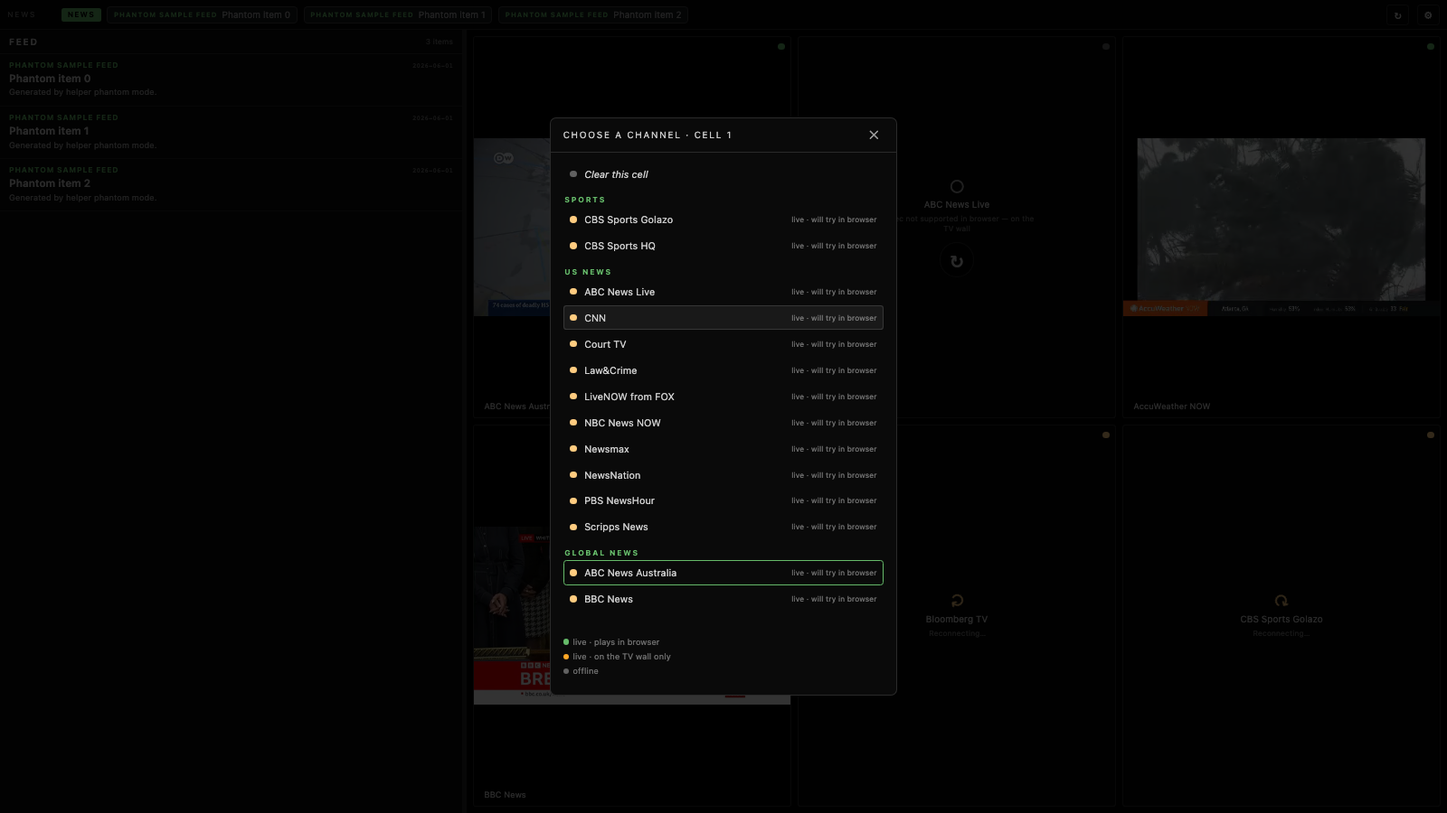
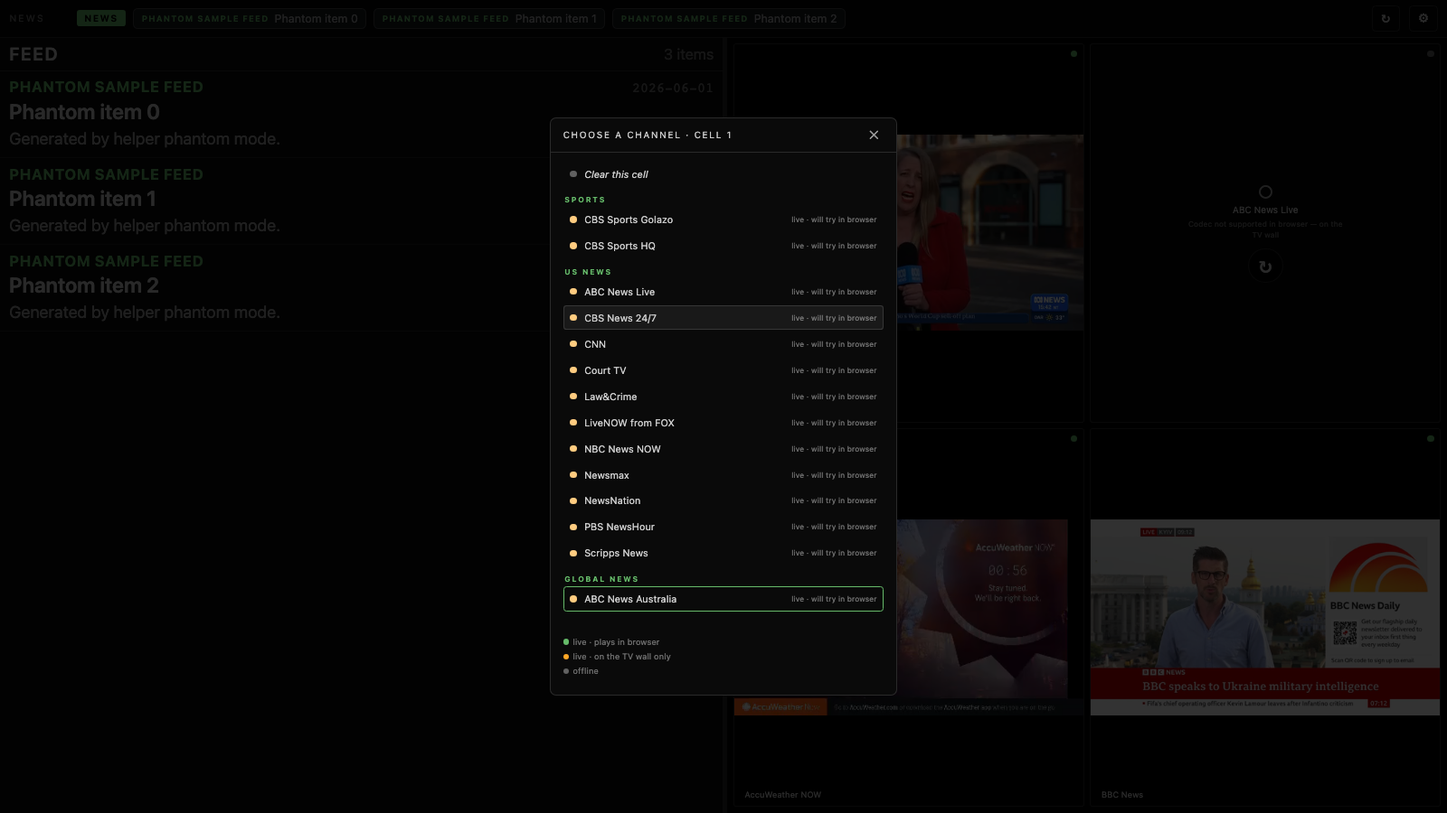
docs: fresh-source pass — finding 24, currency, gallery
Records the MYMTS-003 pass and corrects every present-tense lineup count,
including drift that PREDATED this pass.

- docs/findings/24: the full evidence record. Why the v0.2.1 prune was
  superseded-endpoint and not a sourcing judgment (recovered from c3b5866 +
  the removed seed rows); the admission bar applied; per-candidate ladders,
  segment sizes and containers over two probes; and the reflection list.
- CHANGELOG [Unreleased] + ARCHITECTURE §25 dated note: the additions, the
  honest-nos, and why no APK is warranted.
- Counts corrected to 56 (23 direct-HLS + 31 YouTube-resolved + 2 cspan):
  ARCHITECTURE (the canonical statement AND a pre-existing stale "53"),
  ONBOARDING, docs/onboarding/ONBOARD-01-SETUP, .phantom.yml (3 sites),
  phantom.py's docstring, and tools/desktop/README (a stale "~37 seed
  channels" / "~30 direct-HLS"). Dated CHANGELOG and findings entries are
  left intact as the historical record.
- Gallery: only channel-picker.png regenerated — the one shot whose content
  genuinely drifted (CBS News 24/7 now renders in US News). Capture navigation
  was re-verified against the current UI first and needed no fix. The other
  shots differ run-to-run only by live video frames, so re-committing them
  would be churn.

Two honest-nos are recorded rather than worked around: CBS News Chicago
(master 200, all six variants 404) and the EarthCam/NASA broadcaster handles,
which stay labelled for the BROADCASTER and are deliberately not relabelled to
[…]

diff --git a/helper/src/mymts_helper/phantom.py b/helper/src/mymts_helper/phantom.py
@@ -9,7 +9,7 @@
     /health `sources_count` is the seeded real sources + 1 — by design, an
     honest demo fixture, never a real outlet faked into carrying items.
   - The channel prober is NOT started; preload also seeds every channel
-    from seed.json (all 52) to status=live with synthetic current_urls.
+    from seed.json (all 56) to status=live with synthetic current_urls.
   - The fetcher's `default_resolver` is replaced with `phantom_resolver`
     so any code path that does try to make a real HTTP call refuses to
     resolve any hostname — phantom mode is a hard contract that no

diff --git a/ARCHITECTURE.md b/ARCHITECTURE.md
@@ -963,7 +963,7 @@ A second hands-on pass refined the web client and corrected a video diagnosis.
 - **Agnostic web feed (web only).** `render.mjs::feedChronological` flattens to one newest-first river across all sources; `app.mjs` renders the **source next to each headline** (`sourceLabel`) — the original Onn style, not per-source sections. The **native** feed keeps its Stage-7 per-source sections **on purpose** (a per-client preference, not a reversal); whether to also make the native feed agnostic is an open operator question logged in `BACKLOG.md`. Honest staleness stays per-item via the time/age.
 - **Cell-count grid.** The freeform size slider + draggable splitter were replaced with **cell-count** configuration — `render.mjs::gridLayout(1|2|4|6|9)` → near-square `{cols,rows}` driving `--grid-cols/--grid-rows`. Matches the native wall's tile-count model; the browser host isn't the constrained S905Y4, so it goes past 4. Feed width became a clean Settings control. Cell count + per-cell channel assignment + feed width persist in `localStorage` (`mymts.web.prefs.v2`).
 - **Click-to-pick channels.** A cell is a click target → a channel picker (`app.mjs::openPicker`) listing every channel with an honest badge (plays-in-browser / on-the-TV-wall-only / offline), browser-playable first, plus "Clear this cell". The tile labels its channel and shows a "click to change" chip; empty cells show "＋ Add channel".
-- **Mixed-content honesty (no proxy).** Diagnosis (finding 16, when the lineup was 10 channels) showed all of them HTTPS-clean **and** CORS-allowed — so mixed content was *not* why tiles were blank for that set. Reported truthfully. *(The lineup is now 53 and that "all clean" snapshot isn't re-verified across it — but it doesn't need to be: the runtime `<video>` load result below is the live authority, so any not-playable channel self-flags honestly regardless.)* The suspected real cause — hls.js's `blob:` worker blocked by the locked CSP — is fixed with **`enableWorker:false`** (no CSP widening) plus a click-to-play autoplay fallback. The honest **play-what-works** system is built regardless: the helper classifies a per-channel `browser_playable` hint (`channels/prober.py::classify_browser_playable`, migration 002, on `/api/channels`) by scanning the master+variant bodies for `http://`; the client uses the tri-state `browserPlayability` hint **and** the runtime `<video>` load result (the ground truth, which also catches CORS/geo/dead) to flip a failing tile to the honest "on the TV wall" state. The helper never proxies video — it stays the resolver/shield; the **TV remains the full-fidelity client**.
+- **Mixed-content honesty (no proxy).** Diagnosis (finding 16, when the lineup was 10 channels) showed all of them HTTPS-clean **and** CORS-allowed — so mixed content was *not* why tiles were blank for that set. Reported truthfully. *(The lineup is now 56 and that "all clean" snapshot isn't re-verified across it — but it doesn't need to be: the runtime `<video>` load result below is the live authority, so any not-playable channel self-flags honestly regardless.)* The suspected real cause — hls.js's `blob:` worker blocked by the locked CSP — is fixed with **`enableWorker:false`** (no CSP widening) plus a click-to-play autoplay fallback. The honest **play-what-works** system is built regardless: the helper classifies a per-channel `browser_playable` hint (`channels/prober.py::classify_browser_playable`, migration 002, on `/api/channels`) by scanning the master+variant bodies for `http://`; the client uses the tri-state `browserPlayability` hint **and** the runtime `<video>` load result (the ground truth, which also catches CORS/geo/dead) to flip a failing tile to the honest "on the TV wall" state. The helper never proxies video — it stays the resolver/shield; the **TV remains the full-fidelity client**.
 
 ### Native vs web: why the TV is the full-fidelity client (Browser Client Refocus, 2026-06-13)
 
@@ -1171,7 +1171,7 @@ Both return `audio/x-mpegurl`: `#EXTM3U`, then per channel `#EXTINF:-1 tvg-id="<
 
 A cluster of work that post-dates the section structure above; the stage sections stay as the historical record, this is the current state.
 
-**yt-dlp YouTube resolution (`channels.kind = 'youtube'`) — shipped, in-process.** Migration 003 widened the `kind` CHECK to admit `'youtube'`; the resolver lives in `helper/src/mymts_helper/channels/youtube_resolver.py` and `import yt_dlp` directly (a library call, **not** the once-predicted out-of-process sidecar). On the prober's cycle it resolves a YouTube `/live` URL to its HLS manifest, **gating on `is_live`** so a non-24/7 feed resolves to an honest offline rather than a dead URL; a thread-safe cache keyed off the manifest's own `expire` refreshes before expiry. The resolved manifest is then validated by the **same** SSRF-safe master/variant fetch as a direct-HLS channel — egress is the helper's normal (residential) path, never a host VPN. Lineup is now **52 channels** (22 direct-HLS + 28 YouTube-resolved + 2 free-government `cspan`; US-vantage — a 2026-06-22 quality pass pruned 4 persistently-dead HLS origins: `cnbc` (a `.invalid` placeholder), `al-jazeera-en`, `cgtn-en`, `trt-world`), across the news sections plus the 2026-06 ambient categories **Space / Nature / Cameras** (NASA ISS-HD, explore.org + Monterey Bay Aquarium nature cams, EarthCam / earthTV) — restoring the original wall vision. The **white-whale ocean + eagle cams (2026-06-21)** complete that vision: explore.org **Tropical Reef** + Homosassa **Manatee** (Ocean) and the **Decorah Eagles** nest (seasonal, honest-offline off-season) — all free official YouTube lives, `is_live`-gated, categorized Nature, surfaced via the server-authoritative **Ocean** + **Eagles** presets (both clients pick them up with no rebuild). Per-cam video IDs because explore's `/live` handle rotates; a dead/rotated ID honest-offlines, never fake-live. yt-dlp is pinned and needs periodic bumps (the desktop app self-updates it — below).
+**yt-dlp YouTube resolution (`channels.kind = 'youtube'`) — shipped, in-process.** Migration 003 widened the `kind` CHECK to admit `'youtube'`; the resolver lives in `helper/src/mymts_helper/channels/youtube_resolver.py` and `import yt_dlp` directly (a library call, **not** the once-predicted out-of-process sidecar). On the prober's cycle it resolves a YouTube `/live` URL to its HLS manifest, **gating on `is_live`** so a non-24/7 feed resolves to an honest offline rather than a dead URL; a thread-safe cache keyed off the manifest's own `expire` refreshes before expiry. The resolved manifest is then validated by the **same** SSRF-safe master/variant fetch as a direct-HLS channel — egress is the helper's normal (residential) path, never a host VPN. Lineup is now **56 channels** (23 direct-HLS + 31 YouTube-resolved + 2 free-government `cspan`; US-vantage). A 2026-06-22 quality pass pruned 4 persistently-dead HLS origins — `cnbc` (a `.invalid` placeholder), `al-jazeera-en`, `cgtn-en`, `trt-world` — and the 2026-08-18 fresh-source pass **re-sourced the last three to their official YouTube `/live` handles** (the prune was superseded-endpoint evidence, not a judgment on the broadcasters) and added **CBS News 24/7** on its first-party token-free direct-HLS origin, across the news sections plus the 2026-06 ambient categories **Space / Nature / Cameras** (NASA ISS-HD, explore.org + Monterey Bay Aquarium nature cams, EarthCam / earthTV) — restoring the original wall vision. The **white-whale ocean + eagle cams (2026-06-21)** complete that vision: explore.org **Tropical Reef** + Homosassa **Manatee** (Ocean) and the **Decorah Eagles** nest (seasonal, honest-offline off-season) — all free official YouTube lives, `is_live`-gated, categorized Nature, surfaced via the server-authoritative **Ocean** + **Eagles** presets (both clients pick them up with no rebuild). Per-cam video IDs because explore's `/live` handle rotates; a dead/rotated ID honest-offlines, never fake-live. yt-dlp is pinned and needs periodic bumps (the desktop app self-updates it — below).
 
 **Free government-stream resolution (`channels.kind = 'cspan'`) — shipped, in-process.** Migration 004 widened the `kind` CHECK to also admit `'cspan'`; the resolver (`channels/cspan_resolver.py`) sources C-SPAN's **free, no-login** government livestreams from the government's *own* players — never the entitlement-gated C-SPAN/C-SPAN2/C-SPAN3 networks (Adobe Pass / MVPD), which stay out of scope. It is a **session/filename-refresh** resolver (NOT a token resolver — the senate.gov ISVP feeds carry no Akamai token, no auth, no DRM), serving two modes off one Akamai master shape: the **U.S. Senate floor** (`floor_schedule.json` → `convenedSessionStream`) and **U.S. Senate committee hearings** (the first-party `hearings.xml` schedule → an aggregate tile that surfaces whichever committee is *genuinely* live — a finished hearing whose variant carries `#EXT-X-ENDLIST` is rejected as a frozen VOD, so an ended hearing is never shown live). Both are **honest-offline** when nothing is in session. The House floor + House committees + federal agencies (White House / State / Pentagon / DHS / DOJ) ride the YouTube resolver above. Together these generalize the gov-stream recipe — *read a .gov schedule/ISVP → build the open token-free Akamai master → gate on live* — into a reusable pattern; egress is the helper's normal residential path, never a host VPN, and every resolved manifest still passes the SSRF-safe master/variant fetch before a channel is marked live.
 
@@ -1190,6 +1190,10 @@ A cluster of work that post-dates the section structure above; the stage section
 **Channel quality + Government section (2026-06-22).** A new server-authoritative **Government** category groups the session-gated official `.gov` feeds (chamber floors, committee hearings, agency briefings, the White House feed) out of US News (24 → 11 live), so US News reads live-dense and the gov feeds are honestly grouped (dark-when-not-in-session is expected for "Government"). Both clients pick it up server-authoritatively — native via `sectionedByCategory` (which appends an unrecognized server category alphabetically before General, no rebuild), the web via its `CHANNEL_CATEGORY_ORDER`. The **Space preset** dropped `nasa-tv` (DENY'd — its master-only HLS settles DEAD in ExoPlayer — which made the preset ~50% dead) → ISS-only (1×1); `nasa-tv` remains a picker channel. Verified on-device.
 
 **Weather pass + dead-news prune (2026-06-24).** The Weather category grew 2 → 4: **WeatherNation** re-added (its NAS-prober TLS handshake fixed — its Stirr CDN offers only an RSA-kx cipher Python's default omits, so the `fetcher` now enables that suite **without weakening cert verification**, SECLEVEL unchanged) and **WeatherSpy** added (free Rakuten/CloudFront FAST weather) — both validated `live` from the NAS prober. The two persistently-dead news channels `cnn-international` (Wurl/Rakuten host DNS-dead; not on any US FAST platform) and the branded `c-span` (cspan1 akamai now `http_403`; the three linear C-SPAN networks online are MVPD-gated) were **re-sourced and, finding no clean free source, pruned** — the token-FREE C-SPAN path remains the gov event streams (the `us-senate-*` `cspan` resolvers, unaffected). Lineup stays **52** (−2 dead HLS, +2 live weather HLS). Server-authoritative → both clients pick up with no rebuild.
+
+**Fresh-source pass — international news restored + CBS News 24/7 (2026-08-18).** Lineup **52 → 56**, server-authoritative, **no app rebuild** (every addition lands in an existing section, so `CATEGORY_ORDER` is byte-identical across all three surfaces and the native picker groups them via `sectionedByCategory`). **Al Jazeera English**, **CGTN English** and **TRT World** are **back**: the 2026-06-22 prune removed them because their old *direct-HLS* origins were persistently dead (~1000 consecutive dns/SSL failures, hosts gone) — that was **superseded-endpoint** evidence, not a judgment on the broadcasters, so each is re-sourced to its **official YouTube `/live` handle** (`kind='youtube'`) and rides the same `is_live`-gated yt-dlp resolver → honest-offline as every other YouTube channel. The seed pins the **@handle**, never a rotating video id, so a restream can't strand the tile (pinned by a test). **CBS News 24/7** joins US News on its **first-party token-free direct-HLS origin** (`kind='hls'`). Every addition was validated through the project's own credential-free path — **master → variant → one real segment**, twice, several minutes apart — with no auth, no cookies, no `Referer`, no DRM (`#EXT-X-KEY` absent) and no per-play signing.
+
+*Honest-nos from the same pass.* **CBS News Chicago** (the first-party market feed): its master manifest still serves 200 with a full six-rung ladder, but **every advertised variant returns `404`** — the master-OK / variant-FAIL shape the prober's deepened validation exists to reject; identical on both probes. The only other Chicago path is Pluto's per-play-JWT ad-stitcher, already refused in finding 23. **NASA TV** (`nasa-tv`, the existing NTV1 direct-HLS entry) re-probed the same way: master 200, **all three variants 404** — the standing `DENY` + honest-offline is confirmed correct and it stays a re-source candidate. The generic **EarthCam** and **NASA** entries stay labelled as the **broadcaster handles** they are: both resolve live, but their `/live` handle rotates through programming (EarthCam happened to be showing Wrigley Field at probe time), so relabelling either to whatever was on screen would be a claim the source cannot sustain — see finding 24.
 
 **Desktop executable (`tools/desktop/`, released v0.1.1).** The helper packaged as a launchable desktop app (PyInstaller) so a user runs the **web wall** with no clone / Docker / Python: a **menu-bar / system-tray** app (macOS/Windows) that serves the helper on `http://127.0.0.1:PORT` (localhost — a browser secure context, no TLS) and opens the wall; **headless server mode** on Linux / no-display. It reuses the helper's `create_app()` (no new server logic), keeps the seeded DB in a per-user data dir (never the read-only bundle), and runs a **yt-dlp self-update** — fetch the latest from PyPI's official hosts over HTTPS, **SHA256-verify** against PyPI's digest, and prefer it over the frozen copy via a `meta_path` finder ahead of PyInstaller's `FrozenImporter`, with an offline/launch-safe fallback — so the YouTube channels stay current independent of app releases. Signing/notarization is wired but **gated on credentials** (unsigned builds are honestly marked + carry a right-click→Open note). A tag-triggered GitHub Actions matrix builds macOS/Windows/Linux and publishes a GitHub Release. The same `v*` tag also builds the **native Android APK** (`assembleRelease`) and — **gated on the Android keystore secrets** (the same present/absent gating as macOS notarization) — signs it (`apksigner verify`) and attaches `mymts-<version>.apk` to the Release; with no secrets it builds for validation only and attaches nothing (an unsigned APK won't install). The CI APK is a *stock, runtime-configurable* build (no baked helper URL → first-run setup). The gradle signing reads the keystore from `MYMTS_RELEASE_*` env in CI and from the gitignored `keystore.properties` locally (the operator's flow, unchanged). The bundle/APK are gitignored; only the tooling/workflows are committed. See `CHANGELOG.md` + `SECURITY-PRACTICES.md` (the two signing paths) + `docs/DOWNLOAD-AND-RUN.md`.
 

diff --git a/docs/findings/24-fresh-source-pass-intl-news-and-cbs.md b/docs/findings/24-fresh-source-pass-intl-news-and-cbs.md
@@ -1,0 +1,176 @@
+# 24 — Fresh-source pass: international news restored, CBS News 24/7 added
+
+**Date:** 2026-08-18
+**Scope:** Re-source the three international news channels pruned in the v0.2.1 channel
+cleanup (Al Jazeera English, CGTN English, TRT World), evaluate national **CBS News 24/7**
+and an official **CBS News Chicago** first-party HLS candidate, and re-validate the two
+existing *broadcaster-handle* entries (NASA, EarthCam).
+
+**Outcome: 4 added, 2 honest-no, 2 existing entries re-confirmed as-is.**
+Lineup **52 → 56**. No category added or reordered, so the native app is byte-untouched
+and no APK release is warranted.
+
+---
+
+## Phase 0 — why they were pruned (the gate)
+
+Recovered from primary sources, not memory: commit `c3b5866` *(fix(channels): quality
+cleanup — prune dead, Government category, fix presets, 2026-06-22)*, released in
+`ec832a0` *(chore(release): cut v0.2.1)*, and `CHANGELOG.md` §"Channel-selection findings
+(lineup 56 → 52)".
+
+> **B4:** pruned `al-jazeera-en`, `cgtn-en`, `trt-world` — persistently dead (~1000
+> consecutive dns/SSL failures; hosts gone).
+
+The removed seed rows confirm it — all three were **direct-HLS** origins:
+`live-hls-web-aje.getaj.net`, `livecgtnen.v.kcdnvip.com`, `tv-trtworld.live.trt.com.tr`.
+
+**Conclusion: superseded-endpoint evidence, not a sourcing judgment.** The prune was about
+three dead *hosts*, not about stream quality, editorial standing, or a decision that these
+broadcasters don't belong in the lineup. Nothing in the commit, the release notes, or the
+findings set records a substantive objection to the sources themselves. That makes a
+re-source with a *different, live* official endpoint legitimate — and it gets the **full**
+current admission bar, with no credit for having been carried before.
+
+---
+
+## Admission bar applied (unchanged from finding 23)
+
+Every candidate had to clear all of it, from the helper's own credential-free path:
+
+- resolved and fetched through the project's real code — the in-process `yt_dlp` resolver
+  (`channels/youtube_resolver.py`, `is_live`-gated, no `player_client` pin) for
+  `kind='youtube'`, then the SSRF-safe `fetcher` (https-only, cert verification **on**,
+  private-range rejection, bounded body/time) for every hop;
+- **master → variant → one real segment** actually fetched and its container sniffed;
+- **no** credentials, cookies, injected tokens, `Referer` spoofing, or DRM workarounds;
+- **no** DRM (`#EXT-X-KEY` must be absent), **no** per-play signing;
+- **two probes several minutes apart**, both clean;
+- for YouTube sources, the seed pins the **`@handle`/live** URL — **never** a video id,
+  which rotates whenever the broadcaster restarts the stream.
+
+---
+
+## Results
+
+| Candidate | Kind | Verdict | Top rung | Segment |
+|---|---|---|---|---|
+| **CBS News 24/7** (first-party) | `hls` | **ADD** | 1280×720 @29.97, 3.02 Mb/s (6 rungs) | 1.81 / 1.87 MB MPEG-TS |
+| **Al Jazeera English** (official YouTube) | `youtube` | **ADD** | 1920×1080 @30, 4.56 Mb/s (6 rungs) | 1.63 / 1.47 MB MPEG-TS |
+| **TRT World** (official YouTube) | `youtube` | **ADD** | 1920×1080 @30, 4.56 Mb/s (6 rungs) | 0.47 / 0.55 MB MPEG-TS |
+| **CGTN English** (official YouTube) | `youtube` | **ADD** | 1920×1080 @30, 5.42 Mb/s (6 rungs) | 1.01 / 0.95 MB MPEG-TS |
+| **CBS News Chicago** (first-party) | — | **HONEST-NO** | master OK, 6 rungs advertised | **all 6 variants HTTP 404** |
+| **NASA TV** (`nasa-tv`, existing) | `hls` | **unchanged, DENY confirmed** | master OK, 3 rungs advertised | **all 3 variants HTTP 404** |
+| **ISS / @NASA handle** (`iss-feed`, existing) | `youtube` | **unchanged** | 1280×720 @60, 2.92 Mb/s | 0.93 MB MPEG-TS |
+| **EarthCam** (`earthcam-live`, existing) | `youtube` | **unchanged** | 1920×1080 @30, 5.42 Mb/s | 0.67 / 2.70 MB MPEG-TS |
+
+No candidate's chain contained `#EXT-X-KEY`, a plain-`http://` sub-resource, or a per-play
+signature. Both probes agreed on every row — the four passes passed twice, and the two
+failures failed twice.
+
+### CBS News 24/7 — why the first-party HLS and not the YouTube handle
+
+Both work. The official `@CBSNews/live` handle resolves and plays cleanly, but CBS also
+publishes the feed as a **stable, token-free first-party `.m3u8`**, which is the registry's
+*preferred* shape: no runtime resolver dependency, no ~6 h manifest expiry to refresh, no
+exposure to yt-dlp extraction rot. The direct-HLS origin was taken for that reason.
+
+The variant playlists carry `#EXT-X-CUE-OUT-CONT` / SCTE-35 ad markers (normal for a free
+linear feed) and their segment URIs carry a `?m=<stamp>` cache-buster that is **constant
+across segments and across both probes** — an origin-emitted config stamp we simply follow,
+not a per-play signature we mint. The seeded URL itself is plain and unsigned.
+
+### CBS News Chicago — honest-no
+
+The first-party master serves **HTTP 200** with a complete six-rung ladder, so a shallow
+"is it 200?" check would call it live. Every one of the six advertised variants returns
+`<h1>error 404</h1>`. This is precisely the **master-OK / variant-FAIL** pattern the
+prober's deepened validation (2026-06-03) was built to catch, and it is why the helper
+follows the master one level before ever marking a channel live. Identical on both probes.
+
+No workaround was attempted. The only other Chicago-market path is Pluto's rotating-JWT
+ad-stitcher, already refused on per-play-signing grounds in finding 23. **BACKLOG.**
+
+### NASA TV — the DENY is still correct
+
+`nasa-tv`'s NTV1 direct-HLS master serves 200 and advertises three rungs; **all three
+404**. That is the original "NASA pattern" that motivated the master→variant probe, and it
+confirms the standing `LineupSelector.DENY` / `WEB_DENY` entry and the channel's
+honest-offline state are right. It was **not** pruned in this pass — it is honest-offline
+by design, remains selectable in the picker, and is recorded here as a re-source candidate.
+
+### NASA and EarthCam are BROADCASTER HANDLES — deliberately not relabelled
+
+Both `iss-feed` (`@NASA/live`) and `earthcam-live` (`@earthcam/live`) point at a
+**broadcaster's handle**, and a handle streams whatever that broadcaster is streaming.
+
+At probe time `@earthcam/live` was titled *"EarthCam Live: Wrigley Field"*. It would have
+been easy — and wrong — to convert `earthcam-live` into a dedicated Wrigley tile. The label
+would be accurate for exactly as long as EarthCam kept that cam on the handle, and the
+project would be making a claim its source cannot sustain. It also would **not** be the same
+thing as the dedicated Wrigleyville cams, which finding 23 refused on hard grounds
+(`Referer`-gated, rotating `t=/td=` token, yt-dlp extractor broken) — those remain
+honest-no, and nothing here changes that.
+
+`@NASA/live` was showing the official ISS stream at probe time, matching its existing "ISS
+HD Live" label. Left as-is for the same reason, with the same caveat: it is the NASA
+handle, not a dedicated ISS endpoint.
+
+**Rule, recorded so a later pass doesn't re-tread it:** a channel sourced from a
+`/@handle/live` URL is labelled for the *broadcaster*, never for whatever happened to be
+on air during a probe.
+
+---
+
+## What changed in the repo
+
+- `channels/seed.json` — +4 entries (52 → 56; 23 `hls` / 31 `youtube` / 2 `cspan`). The
+  three restored feeds went back to their **original seed positions** so the diff reads as
+  a re-source in place.
+- `channels/category.py` — +4 slug→category entries. `cbs-news-247` → **US News**;
+  `al-jazeera-en` / `cgtn-en` / `trt-world` → **Global News**. `CATEGORY_ORDER` is
+  **unchanged**, which is what keeps the native app out of this change entirely.
+- Tests — see below. The honest-no is recorded in `category.py`'s omissions block so a
+  future pass finds the evidence next to the taxonomy rather than only in this file.
+
+## Test coverage added (the previous coverage was near-vacuous)
+
+An audit of the existing suite found that adding a channel was **almost entirely
+unguarded**: only four assertions touched a new entry at all, and the change would have
+gone green even if half the new channels never reached the database. Closed with:
+
+- `test_api_channels_2026_08_fresh_sources` — each of the four by slug, with its expected
+  `category` **and** `kind`, plus a guard that the three re-sourced feeds use an
+  `@handle`/live URL and **never** a `watch?v=` video id.
+- `test_every_seeded_channel_has_an_explicit_category` — every seeded slug must be
+  explicitly mapped (one documented exception, `redbull-tv`), and the map may not keep
+  entries for channels no longer shipped. The `GENERAL` fallback exists so an unmapped
+  channel is never *hidden*; silently landing there is still a bug.
+- `test_lineup_size_and_kind_breakdown_are_what_the_docs_claim` — pins 56 / 23-31-2 so the
+  docs and the seed cannot drift apart silently, and names the files to update on a change.
+- `test_shipped_channel_seed_is_wellformed_and_unique` + `…_seeds_every_channel` — the
+  channel-seed equivalent of the long-standing feed-seed guards. **This closed a real
+  latent gap:** `seed_from_file` and `override.seed_lineup` deliberately *skip* an entry
+  whose validator rejects it (so one bad row can't stop the helper booting) — correct at
+  runtime, but it meant a typo'd URL vanished **silently** and the channel simply never
+  appeared. Asserting `stored == len(seed.json)` makes that loud at commit time.
+
+Each new assertion was **mutation-tested**: dropping a channel, pinning a rotating video
+id, seeding an uncategorised channel, and giving a channel a URL its validator rejects each
+produce a red suite naming the exact problem.
+
+---
+
+## Reflection / do-not-re-tread
+
+- A prune for **dead endpoints** is not a prune for **cause**. Before refusing to re-source
+  something the project once carried, read *why* it went — the difference between "the host
+  died" and "we judged this source unfit" decides whether a fresh endpoint is even eligible.
+- **Master-200 is not liveness.** Two of eight candidates served a perfectly well-formed
+  master whose entire ladder was 404. Any future sourcing pass must follow to a real
+  segment; a manifest fetch alone would have added a permanently-dead tile.
+- **A handle is a broadcaster, not a programme.** Resist labelling a `/@handle/live` entry
+  for whatever is on screen during the probe.
+- **Free-linear ad markers are not DRM.** SCTE-35 `#EXT-X-CUE-OUT` and a constant `?m=`
+  cache-buster are ordinary for a FAST feed; the disqualifiers are `#EXT-X-KEY` and a
+  *per-play* signature, and neither was present.

diff --git a/CHANGELOG.md b/CHANGELOG.md
@@ -62,6 +62,81 @@ resolution, clamping, D-pad nudge semantics, and the enum→step migration incl.
 
 ## [Unreleased]
 
+## feat(channels): fresh-source pass — international news restored + CBS News 24/7 (2026-08-18)
+
+Lineup **52 → 56**. Server-authoritative: every addition lands in an **existing** section,
+so `CATEGORY_ORDER` is byte-identical on all three surfaces, `app/` has an **empty diff**,
+and **no APK release is warranted** — the TV picks the new channels up from `/api/channels`
+with no rebuild. Second cut under the per-effort numbering scheme: **MYMTS-003**.
+ARCHITECTURE §25 (dated note) + `docs/findings/24`.
+
+- **Al Jazeera English, CGTN English and TRT World are back.** The 2026-06-22 quality pass
+  (`c3b5866`, released in v0.2.1) pruned all three because their old **direct-HLS** origins
+  were persistently dead — ~1000 consecutive dns/SSL failures, hosts gone. Recovering that
+  rationale was a hard gate on this work, and the answer is unambiguous: it was
+  **superseded-endpoint evidence, not a sourcing judgment**. Nothing on record objected to
+  the broadcasters. Each is therefore re-sourced to its **official YouTube `/live` handle**
+  (`kind='youtube'`), resolved at runtime by the same `is_live`-gated yt-dlp resolver as
+  every other YouTube channel, so a dark feed honest-offlines instead of showing a dead URL.
+  The seed pins the **@handle** and never a video id — a pinned id strands the tile the
+  moment the broadcaster restarts the stream (now a test, not a convention).
+- **CBS News 24/7 added** to US News on its **first-party, token-free direct-HLS** origin.
+  Its official YouTube handle also validated clean, but the direct `.m3u8` is the registry's
+  preferred shape: no resolver dependency, no ~6 h manifest expiry, no yt-dlp extraction rot.
+- **Validation was credential-free and end-to-end.** Every candidate went through the
+  project's own code — the in-process resolver, then the SSRF-safe fetcher — **master →
+  variant → one real fetched segment**, twice, several minutes apart. No auth, no cookies,
+  no injected token, no `Referer`, no DRM workaround. No chain contained `#EXT-X-KEY`, a
+  plain-`http://` sub-resource, or a per-play signature. Ladders, segment sizes and
+  containers are recorded in finding 24.
+
+### Honest-nos and re-confirmations from the same pass
+
+- **CBS News Chicago — honest-no.** Its first-party master serves **200** with a full
+  six-rung ladder, and **all six variants return 404**. That is the master-OK / variant-FAIL
+  shape the prober's deepened validation exists to reject; identical on both probes. No
+  workaround was attempted — the only other Chicago path is Pluto's per-play-JWT stitcher,
+  already refused in finding 23. **BACKLOG.**
+- **NASA TV — the `DENY` is confirmed correct, and it stays.** Re-probed the same way:
+  master 200, **all three variants 404**. It is honest-offline by design, still selectable
+  in the picker, and recorded as a re-source candidate. Not pruned — that would be a
+  separate decision from this pass.
+- **NASA and EarthCam stay labelled as the broadcaster handles they are.** `@earthcam/live`
+  was titled *"EarthCam Live: Wrigley Field"* at probe time. Converting it into a dedicated
+  Wrigley tile would be a claim the source can't sustain — a handle streams whatever the
+  broadcaster puts on it — and it is **not** the same thing as the dedicated Wrigleyville
+  cams, which remain honest-no on `Referer`+rotating-token grounds (finding 23). Recorded as
+  an explicit judgment rather than an assumption.
+
+### Test coverage — a near-vacuous area made non-vacuous
+
+An audit found that adding a channel was **almost entirely unguarded**: only four
+assertions touched a new entry, and the change would have gone green even if half the new
+channels never reached the database.
+
+- New: `test_api_channels_2026_08_fresh_sources` (each slug, its `category` **and** `kind`,
+  plus the no-pinned-video-id rule), `test_every_seeded_channel_has_an_explicit_category`
+  (no silent fall into `General`; no map entries for unshipped slugs), and
+  `test_lineup_size_and_kind_breakdown_are_what_the_docs_claim` (pins 56 / 23-31-2 and names
+  the docs to update).
+- **Latent gap closed:** `seed_from_file` / `override.seed_lineup` deliberately *skip* an
+  entry whose validator rejects it, so one bad row can't stop the helper booting — right at
+  runtime, but it meant a typo'd URL vanished **silently** and the channel simply never
+  appeared. `test_shipped_channel_seed_is_wellformed_and_unique` +
+  `test_shipped_channel_seed_seeds_every_channel` assert `stored == len(seed.json)`, the
+  guard the feed seed has had all along and the channel seed never did.
+- Every new assertion was **mutation-tested** (drop a channel, pin a video id, seed an
+  uncategorised channel, break a URL) and each produces a red suite naming the problem.
+
+### Docs currency
+
+Corrected every present-tense lineup count, including drift that predated this pass:
+`ARCHITECTURE.md` (the canonical statement, plus a stale "53"), `ONBOARDING.md`,
+`docs/onboarding/ONBOARD-01-SETUP.md`, `.phantom.yml` (3 sites), `phantom.py`'s docstring,
+and `tools/desktop/README.md` (a stale "~37 seed channels" / "~30 direct-HLS"). Dated
+CHANGELOG and findings entries were left intact as history.
+
+
 ## feat(web,helper): auto-fit feed width (2026-08-04)
 
 A mode that sizes the feed panel so the **video** cells come out at the videos' native

diff --git a/tools/desktop/README.md b/tools/desktop/README.md
@@ -84,8 +84,8 @@ to sign with `signtool`; otherwise unsigned (SmartScreen caveat).
 This started as a proof-of-concept to de-risk the approach. Validated:
 
 - **It works.** Cold start ≈ 9 s to a healthy server (first run includes DB
-  seeding + the heavy frozen import); the wall serves at `/app/`, the ~37 seed
-  channels load, the DB lands in the user-data dir, clean shutdown.
+  seeding + the heavy frozen import); the wall serves at `/app/`, the seed
+  channels load (56 at the time of writing), the DB lands in the user-data dir, clean shutdown.
 - **Bundle size ≈ 53 MB** (`onedir`). yt-dlp (~12 MB of extractors) is the
   dominant contributor, then the Python runtime + `libcrypto`/`pydantic_core`.
 - **yt-dlp survives freezing.** The YouTube channels resolve from inside the
@@ -102,5 +102,5 @@ This started as a proof-of-concept to de-risk the approach. Validated:
 - **Channel geo:** the default lineup was sourced from a US vantage; some streams
   may not resolve outside that region. The lineup is the helper's seed.
 - **yt-dlp staleness:** a frozen yt-dlp can't self-update, so YouTube channels
-  rot as YouTube changes extraction until a newer build ships. The ~30
+  rot as YouTube changes extraction until a newer build ships. The 23
   direct-HLS channels are unaffected. (A self-update path addresses this.)

diff --git a/ONBOARDING.md b/ONBOARDING.md
@@ -43,7 +43,7 @@ Verify in another shell:
 ```bash
 curl -fsS http://localhost:8091/health      # 200 + build info
 curl -fsS http://localhost:8091/api/feed     # preloaded mock feed items
-curl -fsS http://localhost:8091/api/channels # 52 seeded video channels (HLS + YouTube + 2 C-SPAN/.gov; incl. Space/Nature/Cameras/Ocean+Eagle cams) + the NWS weather-radar widget rows (unified registry — every surface, no ?widgets gate)
+curl -fsS http://localhost:8091/api/channels # 56 seeded video channels (HLS + YouTube + 2 C-SPAN/.gov; incl. Space/Nature/Cameras/Ocean+Eagle cams) + the NWS weather-radar widget rows (unified registry — every surface, no ?widgets gate)
 curl -fsS http://localhost:8091/api/presets  # wall presets: News Wall, Nature, Space, Chill / Mixed, Ocean, Eagles (default: news)
 ```
 You can also open the **web client** at <http://localhost:8091/app>.

diff --git a/docs/onboarding/ONBOARD-01-SETUP.md b/docs/onboarding/ONBOARD-01-SETUP.md
@@ -28,7 +28,7 @@ The first `uv run` resolves the locked dependencies (from `uv.lock`) — let it.
 ```bash
 curl -fsS http://localhost:8091/health       # expect HTTP 200 + build info
 curl -fsS http://localhost:8091/api/feed       # expect mock feed items (non-empty)
-curl -fsS http://localhost:8091/api/channels   # expect all 52 seeded channels (HLS + YouTube + 2 C-SPAN/.gov; incl. Space/Nature/Cameras/Ocean+Eagle cams)
+curl -fsS http://localhost:8091/api/channels   # expect all 56 seeded channels (HLS + YouTube + 2 C-SPAN/.gov; incl. Space/Nature/Cameras/Ocean+Eagle cams)
 ```
 Open <http://localhost:8091/app> in a browser to see the **web client** on the mock data — that alone proves the helper demo works.
 
